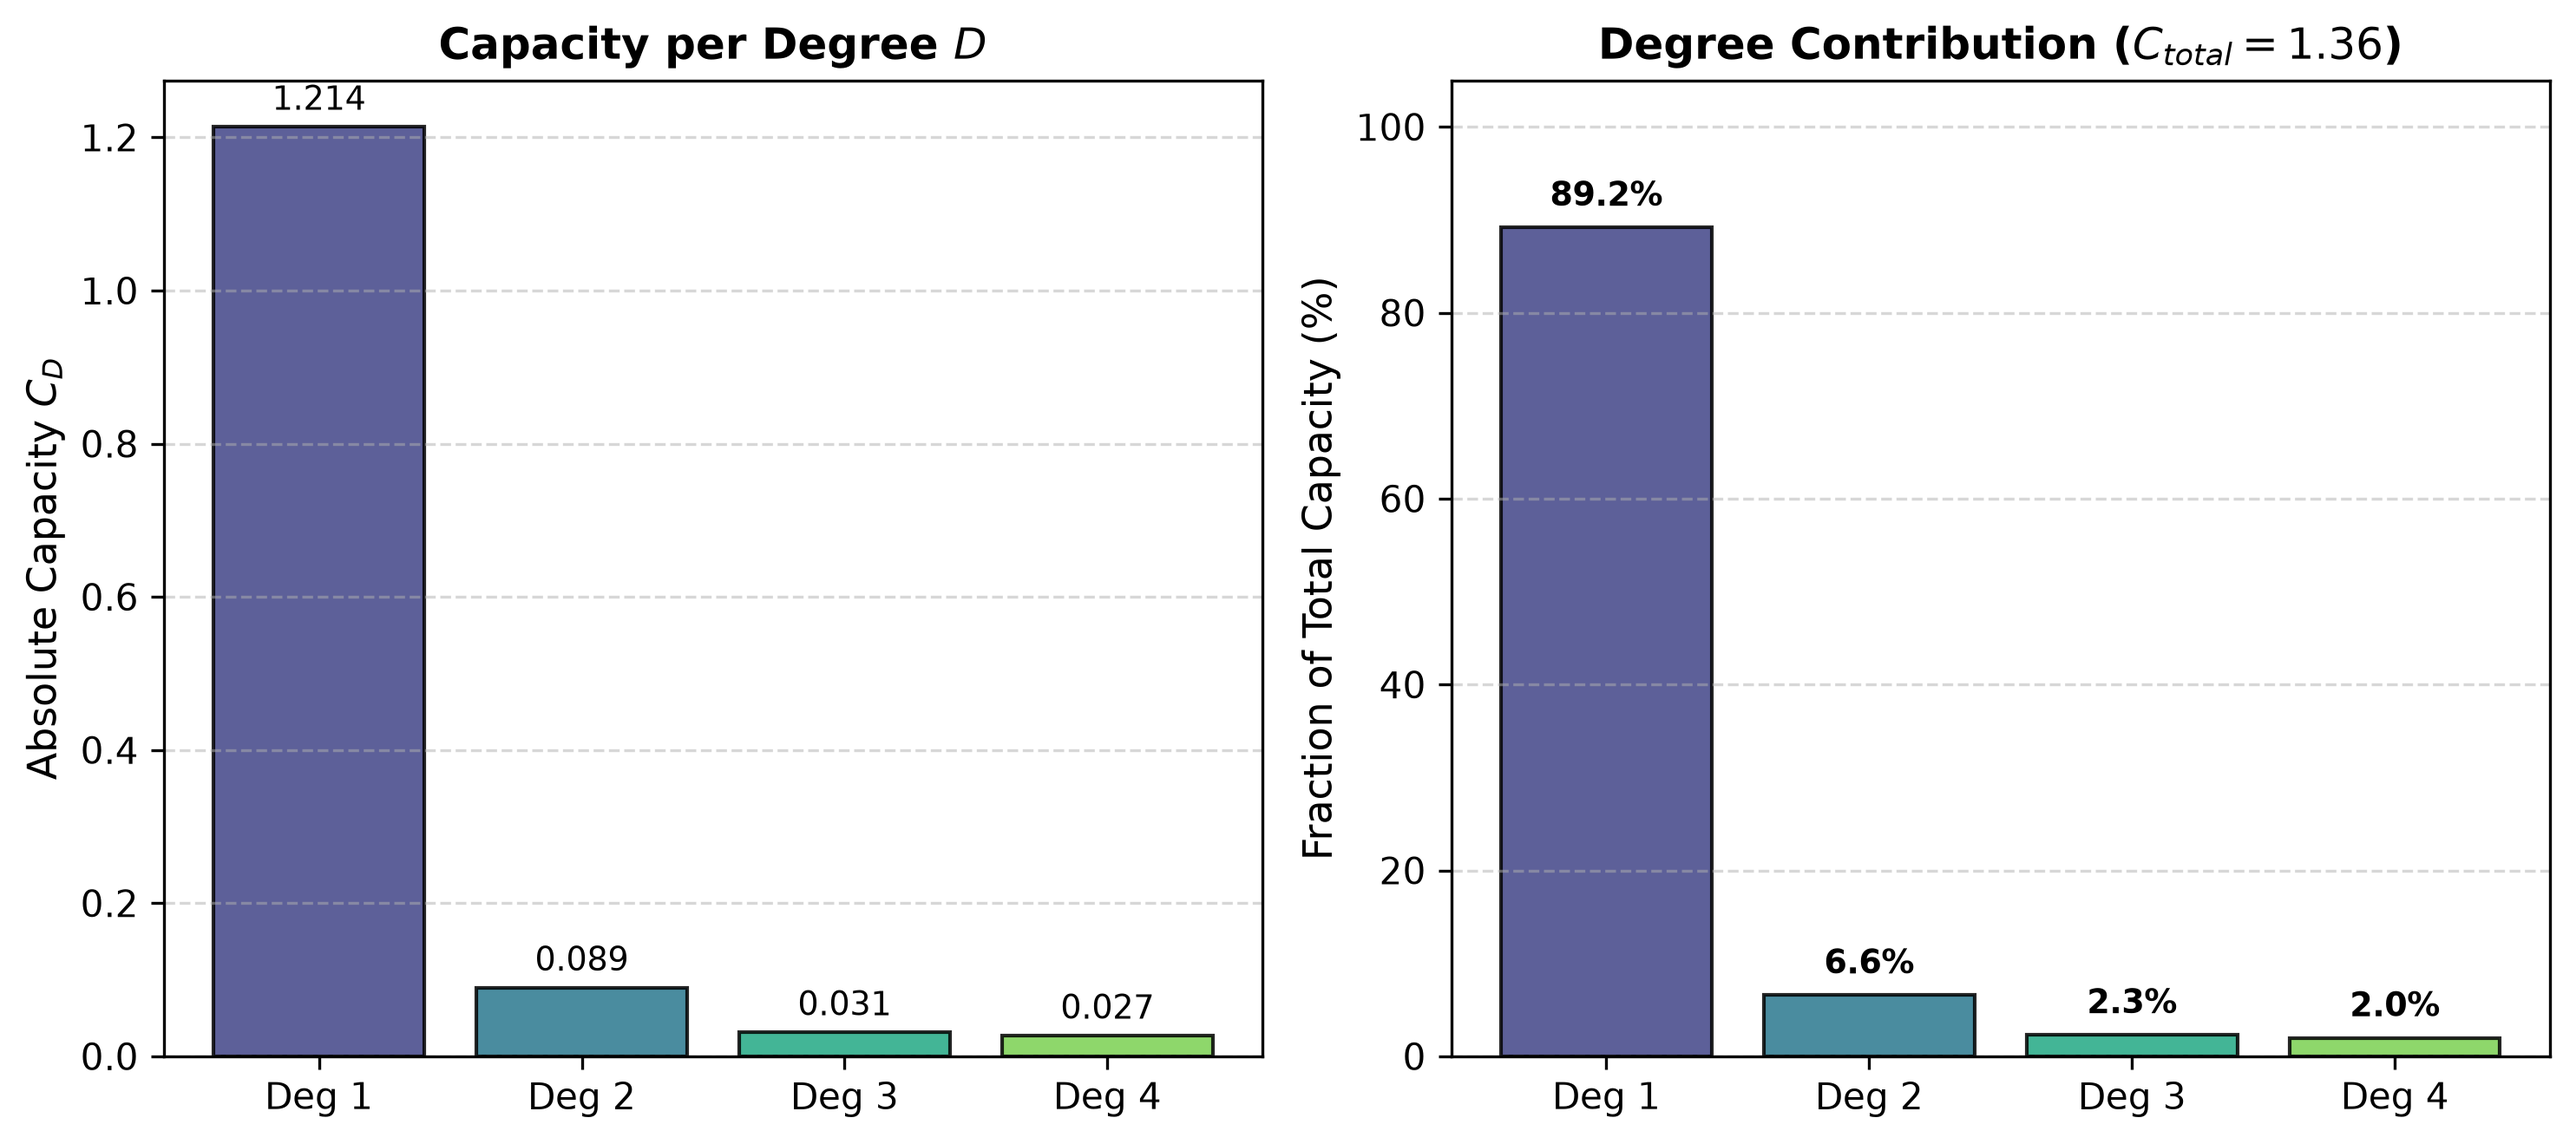
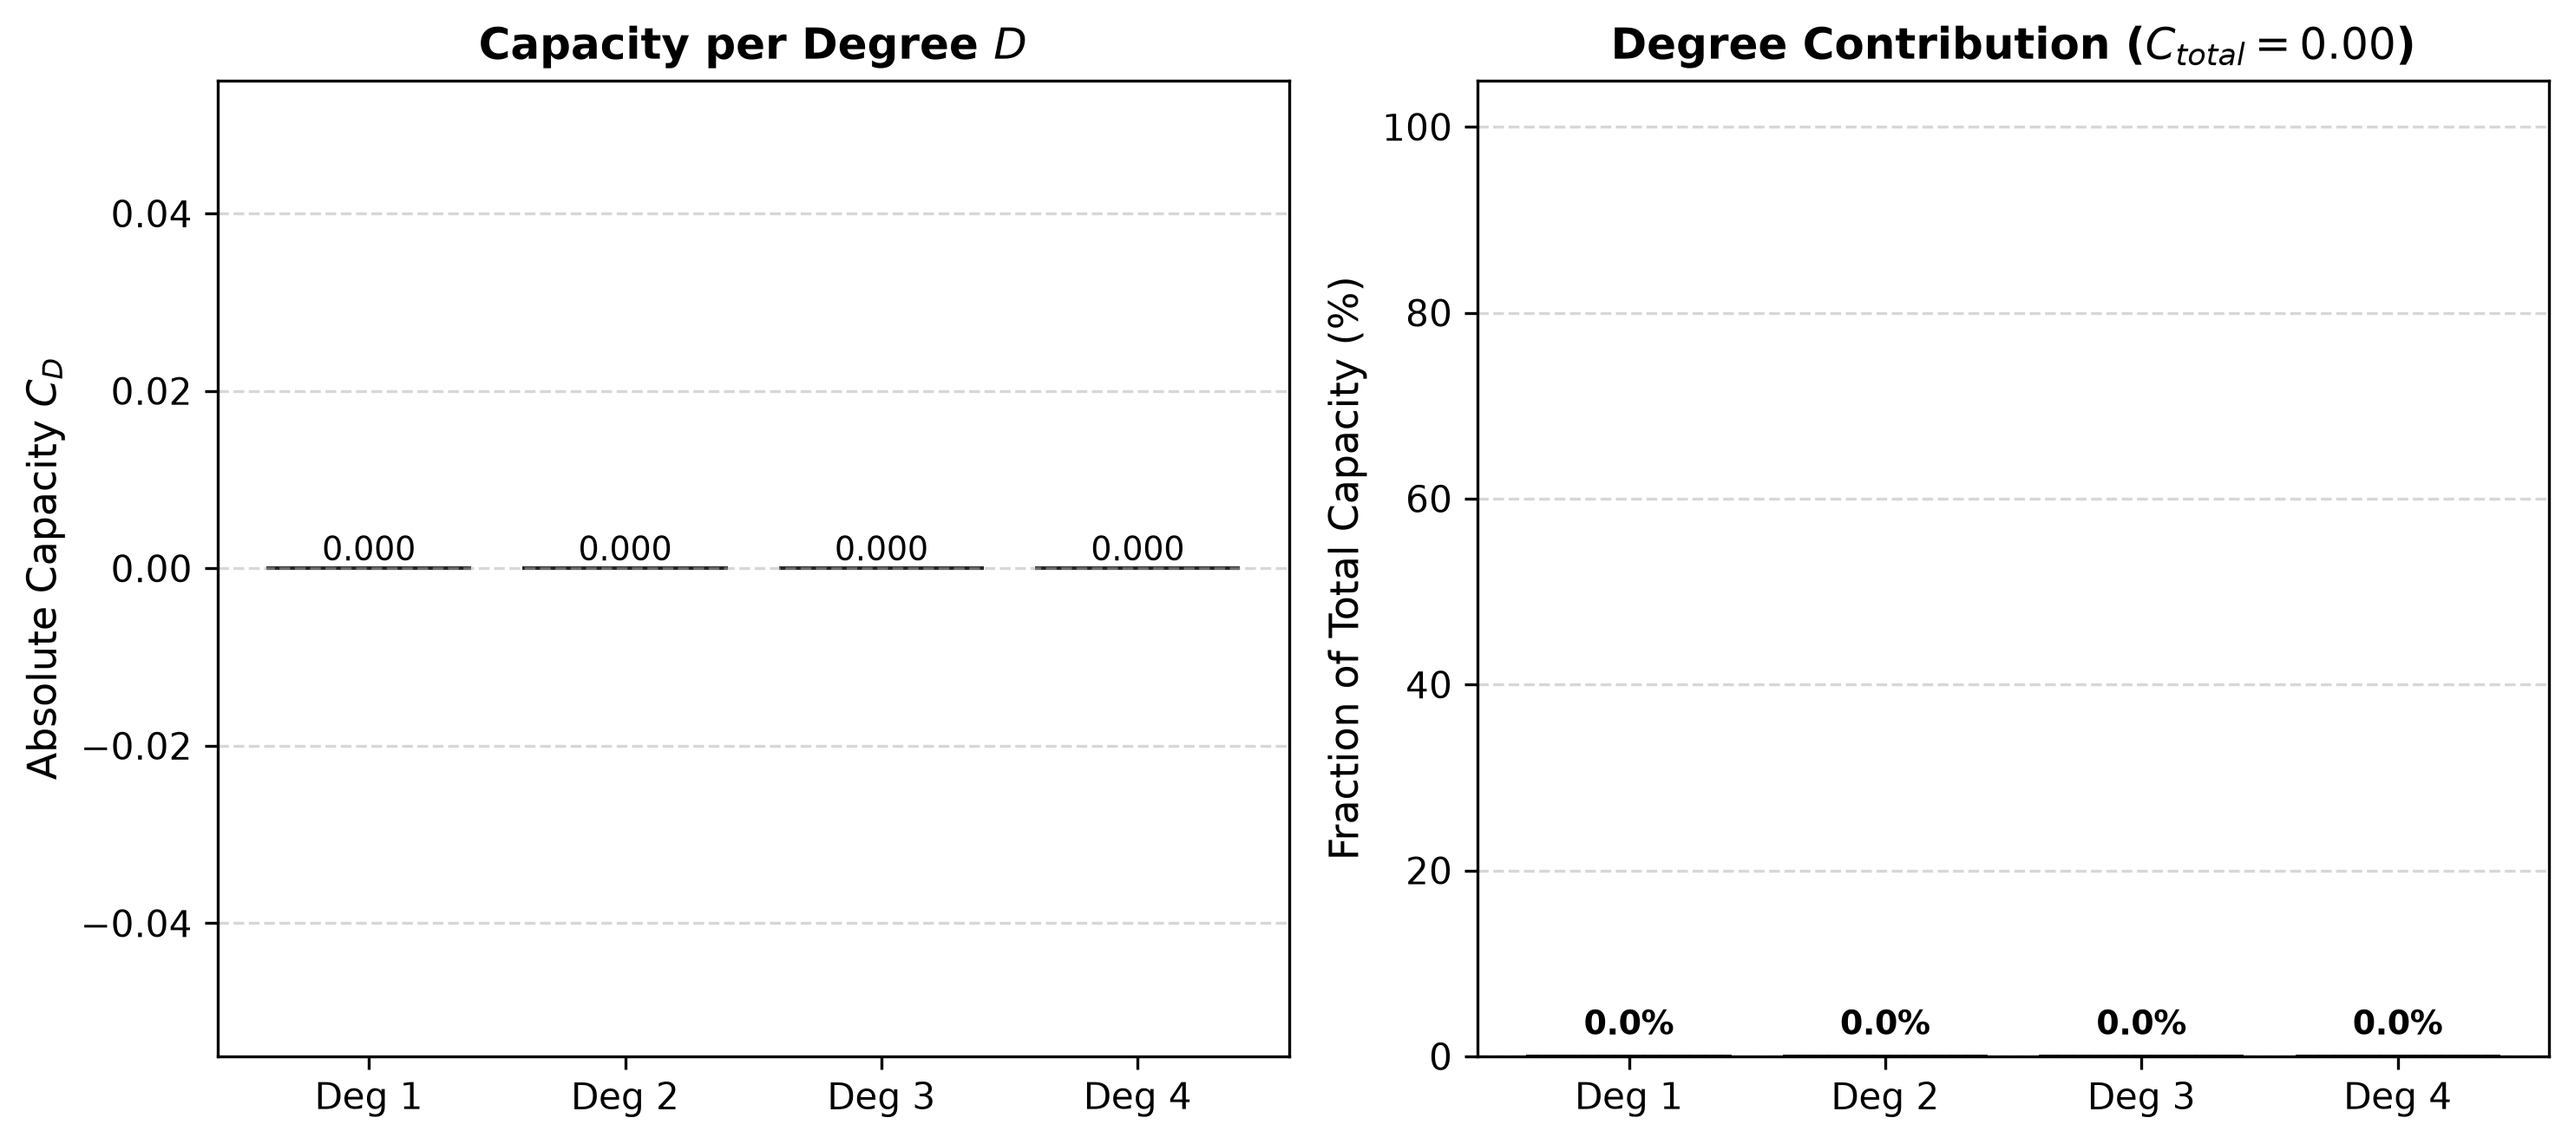
more IPC changes

diff --git a/test_scripts/logistic_map_test.py b/test_scripts/logistic_map_test.py
@@ -1,0 +1,123 @@
+"""
+IPC sweep over injection scaling parameter i (ι) for the driven logistic map.
+Reproduces the stacked bar chart from Appeltant et al., Sci. Rep. 2, 514 (2012).
+ 
+Run from the project root (same directory that contains your `classes/` folder):
+    python ipc_sweep.py
+"""
+ 
+import sys
+import numpy as np
+import matplotlib.pyplot as plt
+import matplotlib.ticker as ticker
+import matplotlib.colors as mcolors
+import matplotlib.cm as cm
+from matplotlib.colorbar import ColorbarBase
+ 
+# ── Make sure your classes/ folder is importable ──────────────────────────────
+sys.path.insert(0, ".")
+from classes.RC import RC_TimeSeries
+from classes.logistic_map import LogisticMapRC
+ 
+ 
+# ── Sweep settings ────────────────────────────────────────────────────────────
+I_VALUES  = np.round(np.arange(0.02, 0.21, 0.02), 4)   # ι = 0.02 … 0.20
+RHO       = 2.5          # paper's bifurcation parameter
+D_MAX     = 4            # degrees 1–4
+TAU_MAX   = 10           # max delay for IPC targets
+DATA_SIZE = 5000         # IPC time series length
+WASHOUT   = 200          # must be ≥ TAU_MAX
+ 
+# ── Colour map: dark blue → cyan → yellow/orange (matching paper) ─────────────
+DEGREE_COLORS = ["#1a3a8f", "#2176c8", "#5cb8e8", "#c8e83c"]
+ 
+ 
+# ── Run sweep ─────────────────────────────────────────────────────────────────
+print(f"Sweeping ι over {I_VALUES}")
+print(f"rho={RHO}, d_max={D_MAX}, tau_max={TAU_MAX}, data_size={DATA_SIZE}\n")
+ 
+results = np.zeros((len(I_VALUES), D_MAX))
+dummy_train = np.random.default_rng(0).uniform(-1, 1, WASHOUT + 10)
+ 
+for idx, i_inj in enumerate(I_VALUES):
+    print(f"[{idx+1}/{len(I_VALUES)}]  ι = {i_inj:.2f}", flush=True)
+ 
+    rc = LogisticMapRC(
+        training_data = dummy_train,
+        washout       = WASHOUT,
+        rho           = RHO,
+        i_inj         = i_inj,
+        initial_x     = 0.5,
+    )
+ 
+    total, cap_array = rc.evaluate_IPC_joint(
+        data_size = DATA_SIZE,
+        d_max     = D_MAX,
+        tau_max   = TAU_MAX,
+        threshold = 0
+    )
+ 
+    results[idx] = cap_array
+    print(f"           total IPC = {total:.4f}  |  by degree: {cap_array}")
+ 
+print("\nSweep complete.")
+ 
+ 
+# ── Normalise to relative capacity ────────────────────────────────────────────
+row_totals = results.sum(axis=1, keepdims=True)
+row_totals_safe = np.where(row_totals == 0, 1, row_totals)
+results_rel = results / row_totals_safe
+ 
+ 
+# ── Plot ──────────────────────────────────────────────────────────────────────
+fig, ax = plt.subplots(figsize=(5, 4.5), dpi=150)
+ 
+x = np.arange(len(I_VALUES))
+bar_width = 0.7
+bottoms = np.zeros(len(I_VALUES))
+ 
+for d in range(D_MAX):
+    ax.bar(
+        x,
+        results_rel[:, d],
+        width     = bar_width,
+        bottom    = bottoms,
+        color     = DEGREE_COLORS[d],
+        edgecolor = "black",
+        linewidth = 0.6,
+    )
+    bottoms += results_rel[:, d]
+ 
+ax.set_xticks(x)
+ax.set_xticklabels([f"{v:.2f}" for v in I_VALUES], fontsize=8)
+ax.set_xlabel("Scaling parameter ι", fontsize=11)
+ax.set_ylabel("Capacity (relative)", fontsize=11)
+ax.set_title("Logistic map", fontsize=12)
+ax.set_ylim(0, 1.02)
+ax.yaxis.set_major_locator(ticker.MultipleLocator(0.2))
+ax.grid(axis="y", linestyle="--", alpha=0.3)
+ 
+# ── Colorbar legend (matching paper's right-side gradient) ───────────────────
+cmap = mcolors.LinearSegmentedColormap.from_list(
+    "degree_cmap", DEGREE_COLORS, N=256
+)
+norm = mcolors.Normalize(vmin=1, vmax=D_MAX)
+ 
+from mpl_toolkits.axes_grid1.inset_locator import inset_axes
+
+cax = inset_axes(ax, width="5%", height="70%", loc="center right",
+                 bbox_to_anchor=(0.12, 0, 1, 1), bbox_transform=ax.transAxes,
+                 borderpad=0)
+cb  = fig.colorbar(cm.ScalarMappable(norm=norm, cmap=cmap), cax=cax, orientation="vertical")
+cb  = ColorbarBase(cax, cmap=cmap, norm=norm, orientation="vertical")
+cb.set_label("degree", fontsize=10)
+cb.set_ticks(range(1, D_MAX + 1))
+cb.set_ticklabels([str(d) for d in range(1, D_MAX + 1)])
+ 
+plt.subplots_adjust(right=0.88)   # make room for colorbar
+ 
+out_path = "ipc_logistic_sweep.png"
+plt.savefig(out_path, bbox_inches="tight")
+print(f"Plot saved → {out_path}")
+plt.show()
+ 

diff --git a/classes/logistic_map.py b/classes/logistic_map.py
@@ -1,0 +1,110 @@
+import numpy as np
+from dataclasses import dataclass, field
+from classes.RC import RC_TimeSeries
+ 
+ 
+# ── Piecewise linear saturation  S(y) ────────────────────────────────────────
+def S(y: float) -> float:
+    """Piecewise linear saturation function from the paper."""
+    if y < 0:
+        return 0.0
+    elif y > 1:
+        return 1.0
+    else:
+        return y
+ 
+ 
+# ── Driven logistic map  x(t+1) = ρ · v(t) · (1 − v(t)) ─────────────────────
+# v(t) = S(x(t) + i · u(t))
+def driven_logistic_step(x: float, u: float, rho: float, i_inj: float) -> float:
+    v = S(x + i_inj * u)
+    return rho * v * (1.0 - v)
+ 
+ 
+# ── RC subclass ───────────────────────────────────────────────────────────────
+@dataclass(kw_only=True)
+class LogisticMapRC(RC_TimeSeries):
+    """
+    Reservoir computer using the driven logistic map from:
+      Appeltant et al., Scientific Reports 2, 514 (2012)
+ 
+      x(t+1) = rho * v(t) * (1 - v(t))
+      v(t)   = S(x(t) + i_inj * u(t))
+ 
+    One state x per input step — no time-multiplexing.
+    Output shape: (1, len(data))
+    """
+ 
+    rho: float = 3.7       # bifurcation parameter  (ρ in the paper)
+    i_inj: float = 0.2     # injection scaling       (i in the paper)
+    initial_x: float = 0.5
+ 
+    def simulate_data(
+        self,
+        data: np.ndarray,
+        is_train: bool,
+        save_dynamics: bool = False,
+    ) -> np.ndarray:
+        """
+        Drive the logistic map with each input sample and collect x(t).
+ 
+        Returns
+        -------
+        node_results : ndarray, shape (1, len(data))
+        """
+        n_samples = len(data)
+        node_results = np.zeros((1, n_samples))
+ 
+        x = self.initial_x
+ 
+        for t, u_t in enumerate(data):
+            x = driven_logistic_step(x, u_t, self.rho, self.i_inj)
+ 
+            if save_dynamics and is_train:
+                self.dynamics_data.append([t, x])
+ 
+            node_results[0, t] = x
+ 
+        return node_results
+ 
+ 
+# ── Data generation helpers ───────────────────────────────────────────────────
+ 
+def generate_logistic_sequence(
+    n: int,
+    rho: float = 3.9,
+    x0: float = 0.5,
+    n_transient: int = 100,
+) -> np.ndarray:
+    """Free-running logistic map x(t+1) = rho*x*(1-x), transients discarded."""
+    x = x0
+    for _ in range(n_transient):
+        x = rho * x * (1.0 - x)
+    out = np.empty(n)
+    for t in range(n):
+        x = rho * x * (1.0 - x)
+        out[t] = x
+    return out
+ 
+ 
+# ── Example usage ─────────────────────────────────────────────────────────────
+#
+#   from LogisticMapRC import LogisticMapRC, generate_logistic_sequence
+#
+#   full_data    = generate_logistic_sequence(n=1200, rho=3.7)
+#   train_data   = full_data[:1000]
+#   test_data    = full_data[1000:]
+#   test_targets = full_data[1001:]       # one-step-ahead prediction
+#
+#   rc = LogisticMapRC(
+#       training_data = train_data,
+#       washout       = 100,
+#       rho           = 3.7,
+#       i_inj         = 0.2,
+#   )
+#
+#   rc.train()
+#   predictions, nrmse = rc.test(test_data, test_targets)
+#   print(f"NRMSE: {nrmse:.4f}")
+#   rc.plot()
+ 

diff --git a/classes/RC.py b/classes/RC.py
@@ -31,7 +31,6 @@ def eval_legendre_norm(degree, x):
             norm_factor = np.sqrt(2 * degree + 1)
             return norm_factor * eval_legendre(degree, x)
 
-
 def normalized_legendre(n, x):
             # Standard Legendre polynomial of degree n
             pn = legendre(n)
@@ -43,16 +42,13 @@ def normalized_legendre(n, x):
 @dataclass(kw_only=True)
 class RC(ABC):
     #Mandatory Parameters
-    training_data: np.ndarray
     washout: int 
-
 
     #Optional parameters with defaults
     window_size: int = field(default=10,init=True)
    
 
     # Data to be assigned later or given in subclasses
-    training_targets: np.ndarray | None = field(default=None)
     dynamics_data: list = field(default_factory=list, init=False)
     is_trained: bool = field(default=False, init=False)
     rest_time_steps: int | None = field(default=None, init=False)
@@ -62,30 +58,26 @@ class RC(ABC):
     
     def __post_init__(self):
 
-        self.training_targets = self.training_data[self.washout:]
+        return
 
 
-    def train(self,save_dynamics:bool = False) -> np.ndarray:
+    def train(self,data:np.ndarray,targets: np.ndarray,save_dynamics:bool = False) -> np.ndarray:
         """
         Overarching method that will train the model with the data given and update the weight matrix
         
         """
 
-        if self.training_targets is None:
-            raise ValueError(
-                f"Training targets must be assigned and are currently {None}"
-            )
-
         #Exclude washout period in results
-        training_results = self.simulate_data(self.training_data,save_dynamics=save_dynamics,is_train=True)[:,self.washout:]
+        training_results = self.simulate_data(data,save_dynamics=save_dynamics,is_train=True)[:,self.washout:]
 
         inverse_train = np.linalg.pinv(training_results)
 
-        self.W = self.training_targets @ inverse_train
+        self.W = targets @ inverse_train
         
         self.is_trained = True
 
         return self.W
+
 
     def test(self,test_data,test_targets) -> tuple[np.ndarray,float]:
         """
@@ -253,7 +245,8 @@ class RC(ABC):
 
         # Calculate finite-sample noise floor cutoff (R^2 ~ K / T_eff)
         noise_floor = K / T_eff
-        effective_threshold = max(threshold, noise_floor + 0.01)
+        # effective_threshold = max(threshold, noise_floor + 0.01)
+        effective_threshold = threshold
 
         # Pre-calculate pseudoinverse once: shape (T_eff, K)
         pinv_reservoir = np.linalg.pinv(reservoir_data)
@@ -331,7 +324,7 @@ class RC(ABC):
                 # Ordered degree assignments summing to D
                 deg_permutations = list(find_permutations(n_poly, D))
                 # DISTINCT time lags only — no same-lag products
-                delays_list = list(combinations(range(max_delay + 1), n_poly))
+                delays_list = list(combinations(range(1,max_delay + 1), n_poly))
 
                 for perm in deg_permutations:
                     for delay_tuple in delays_list:

diff --git a/test_scripts/test_JJ.py b/test_scripts/test_JJ.py
@@ -78,7 +78,7 @@ start_idx = 100
 
 
 JJ_RC_OP1 = JJ(washout=washout,
-           virtual_nodes=20,
+           virtual_nodes= 1,
            k_inj=.25,
            I_dc=0.5,
            window_size=0,
@@ -89,7 +89,7 @@ JJ_RC_OP1 = JJ(washout=washout,
            )
 
 JJ_RC_OP2 = JJ(washout=washout,
-           virtual_nodes=20,
+           virtual_nodes=1,
            k_inj=.15,
            I_dc=1.5,
            window_size=0,
@@ -101,7 +101,7 @@ JJ_RC_OP2 = JJ(washout=washout,
            )
 
 JJ_RC_OP3 =JJ(washout=washout,
-           virtual_nodes=20,
+           virtual_nodes=1,
            k_inj=.1,
            I_dc=.95,
            window_size=0,
@@ -125,7 +125,8 @@ for (i,reservoir) in enumerate(reservoir_list):
     total_C, cap_list = reservoir.evaluate_IPC_joint(
         data_size=5000,
         d_max=4,
-        tau_max=10
+        tau_max=10,
+        threshold=0,
     )
 
     # Render the plots
